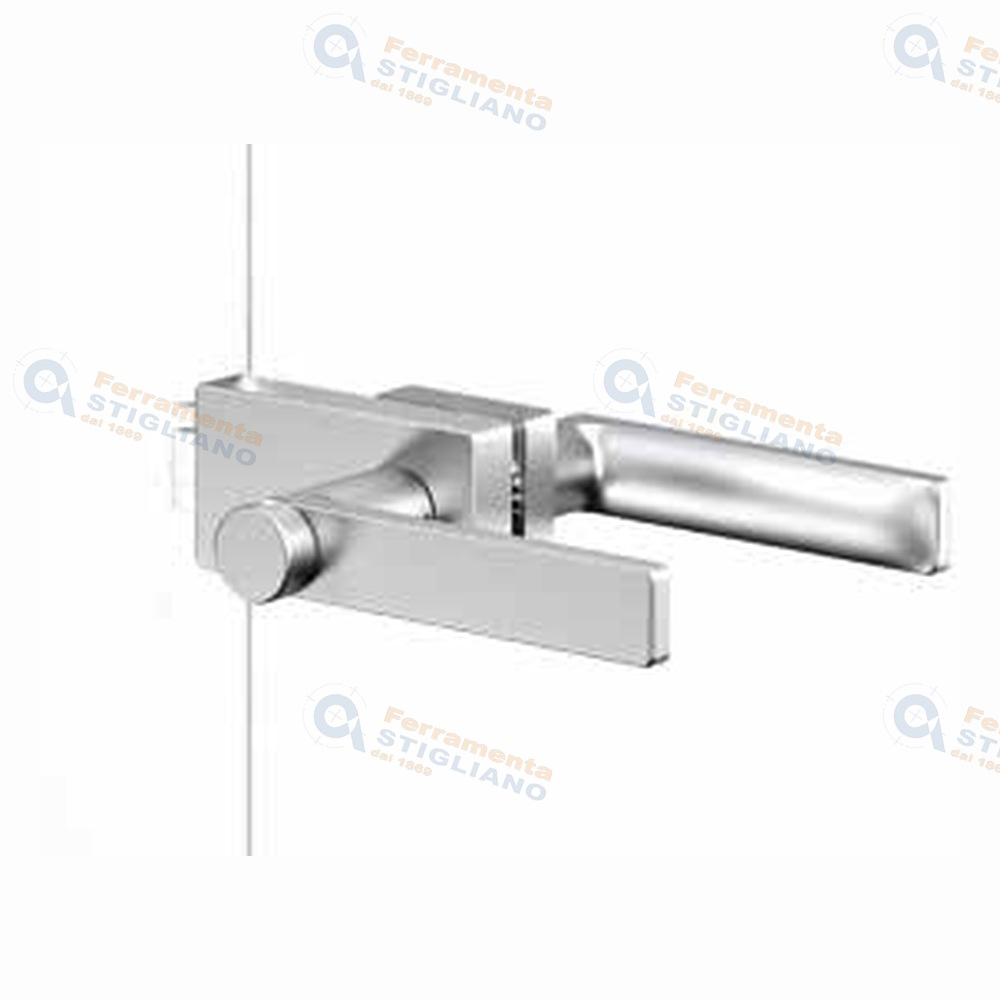
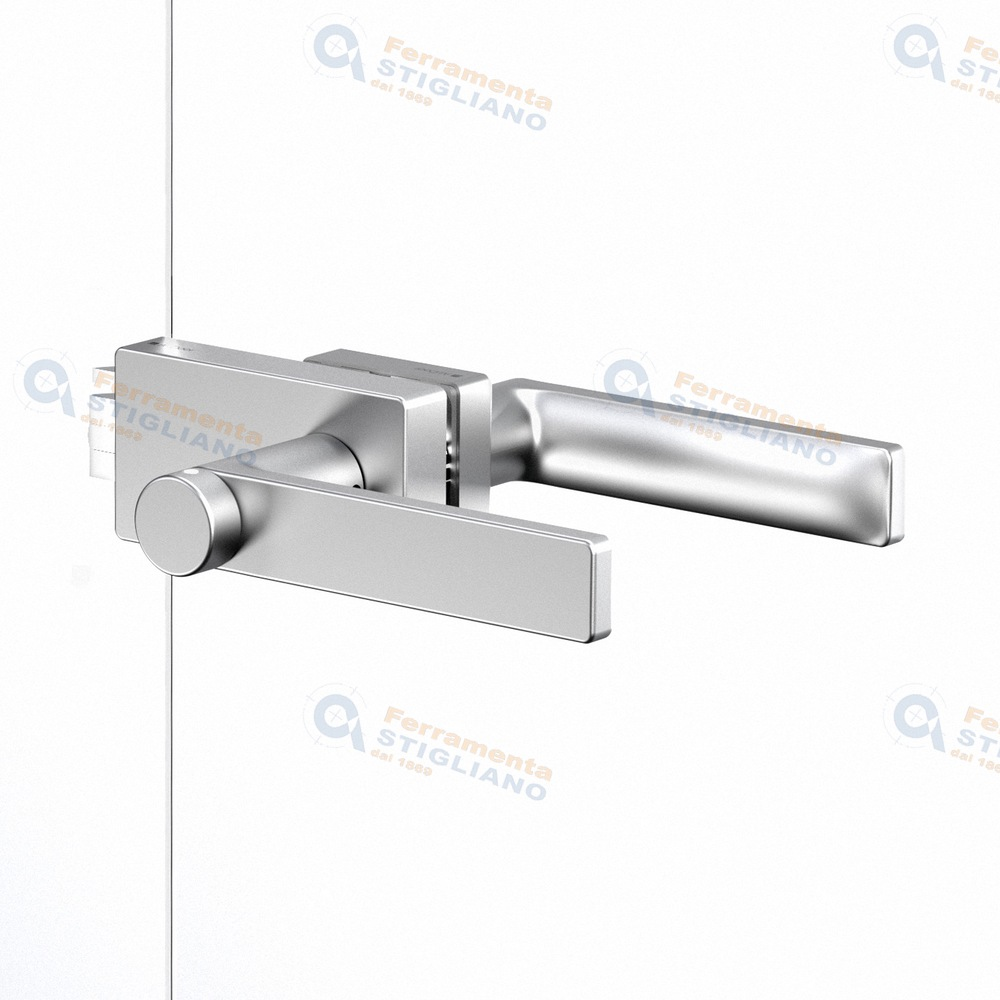
Sostituisce le foto su vetro dell'AirHandle con i render del cliente
Le due foto ricavate dalla brochure erano solo 279x215 px: adesso ci sono
i render ufficiali ad alta risoluzione (cromo opaco e nero opaco), che
mostrano bene chiave, pomolo privacy e scrocco sul vetro. Diventano loro
la prima foto della galleria, seguite dal render con la cerniera AirHinge.

Changed region(s): [[0.093, 0.155, 0.961, 0.837]]

diff --git a/src/CatalogoVetro.jsx b/src/CatalogoVetro.jsx
@@ -1436,8 +1436,10 @@ const PRODOTTI_VETRO = [
       { chiave: 'apertura', etichetta: 'Verso di apertura' },
     ],
     immagini: {
-      'Cromo opaco': [airhandleArgentoRender, airhandleArgentoVetro],
-      'Nero opaco': [airhandleNeroRender, airhandleNeroVetro, airhandleNeroAmbiente],
+      // Prima le foto sulla porta in vetro, che e' la versione che trattiamo;
+      // poi il render con la cerniera AirHinge accanto.
+      'Cromo opaco': [airhandleArgentoVetro, airhandleArgentoRender],
+      'Nero opaco': [airhandleNeroVetro, airhandleNeroRender, airhandleNeroAmbiente],
     },
     varianti: [
       { codice: 'L13NAGL', finitura: 'Cromo opaco', apertura: 'A spingere' },
